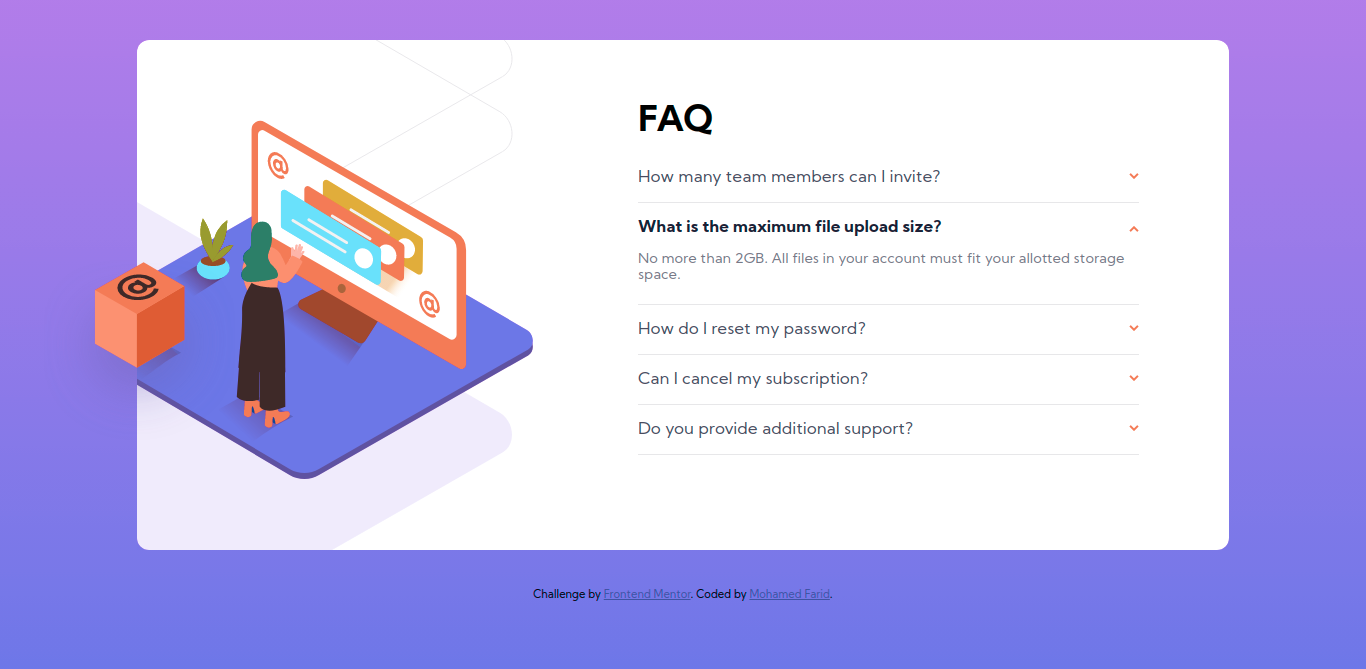
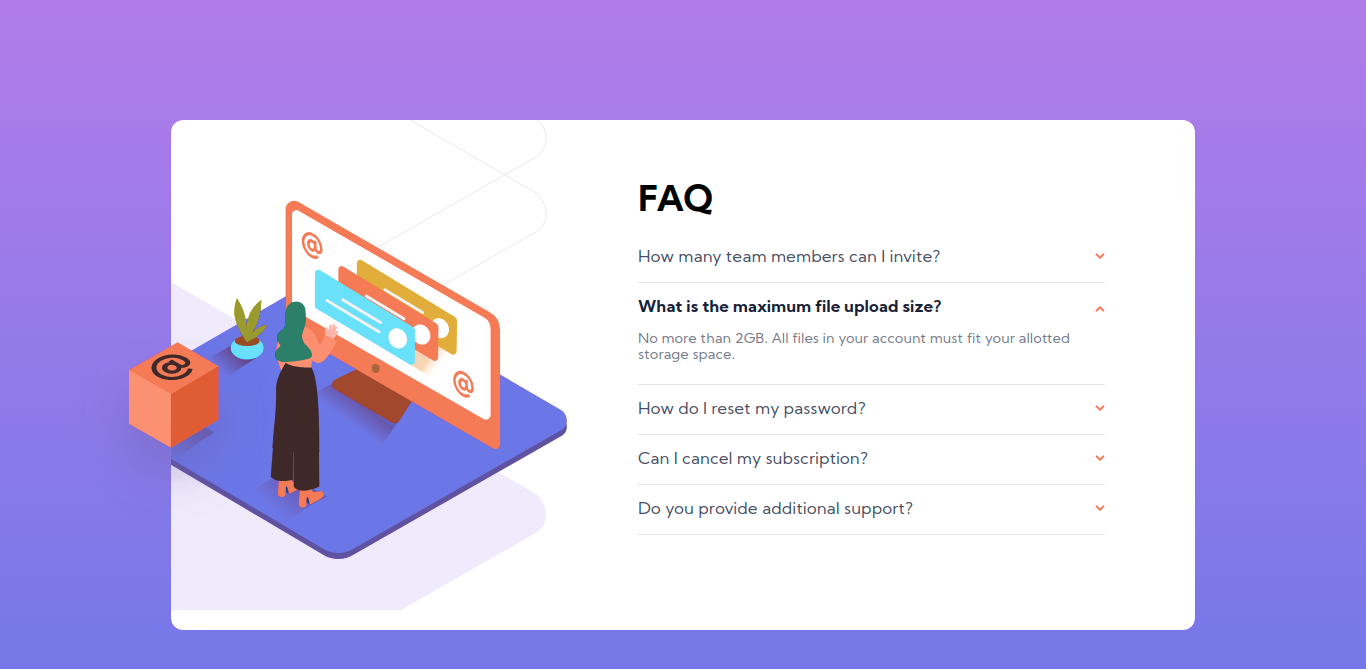
add mobile style

diff --git a/css/style.css b/css/style.css
@@ -22,14 +22,14 @@ body {
   font-size: 12px;
   font-family: "Kumbh Sans", sans-serif;
   background-image: linear-gradient(var(--soft-violet), var(--soft-blue));
-  height: 100vh;
+  height: 125vh;
 }
 
 .faq-container {
   background-color: #fff;
   border-radius: 12px;
-  width: 80%;
-  margin: 40px auto;
+  width: 75%;
+  margin: 120px auto;
   display: flex;
   align-items: stretch;
   height: 510px;
@@ -50,7 +50,12 @@ body {
   left: -93px;
   top: 220px;
 }
-
+.mobile-woman-img {
+  position: absolute;
+  display: none;
+  left: 40px;
+  top: -109px;
+}
 .questions-wrapper {
   padding: 62px 90px 0px 0px;
 }
@@ -102,6 +107,33 @@ body {
   font-weight: 400;
   color: var(--dark-grayish-blue);
   display: none;
+}
+/* media less 1250 */
+
+@media (max-width: 1250px) {
+  .box-img {
+    display: none;
+  }
+  .mobile-woman-img {
+    display: block;
+  }
+
+  .imgs-wrapper {
+    background: url(../images/bg-pattern-mobile.svg) no-repeat 60px 0px;
+    position: relative;
+  }
+  .faq-container {
+    width: 377px;
+    flex-direction: column;
+  }
+
+  .questions-wrapper {
+    display: flex;
+    flex-direction: column;
+    justify-content: center;
+    align-items: center;
+    padding: 0px 20px 30px 20px;
+  }
 }
 
 /* active state classes */

diff --git a/index.html b/index.html
@@ -19,6 +19,7 @@
 <body>
   <section class="faq-container">
     <div class="imgs-wrapper">
+      <img class="mobile-woman-img" src="./images/illustration-woman-online-mobile.svg" alt="img">
       <img class="box-img" src="./images/illustration-box-desktop.svg" alt="">
     </div>
     <div class="questions-wrapper">
